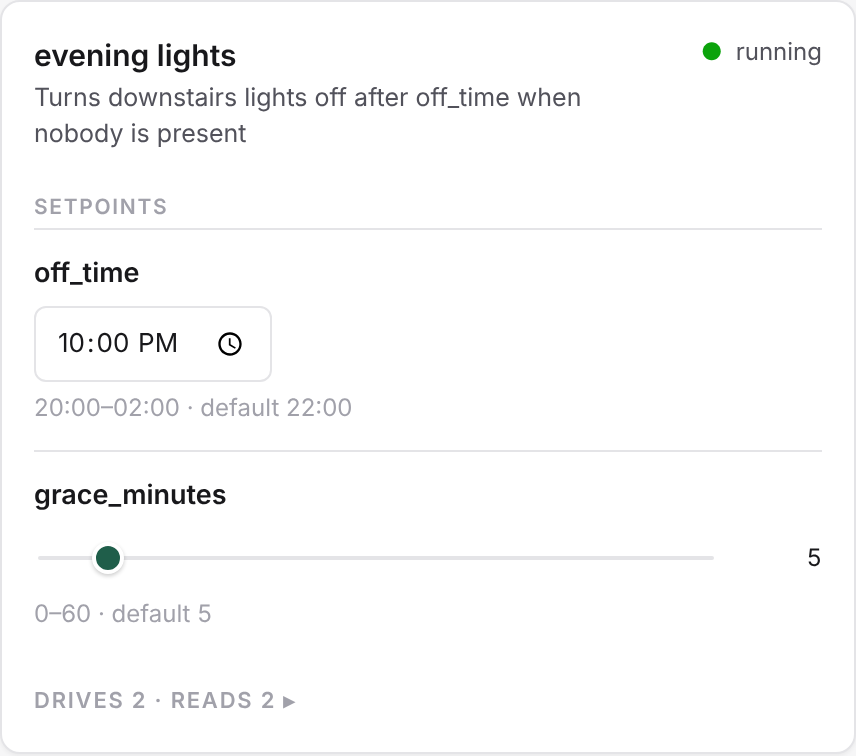
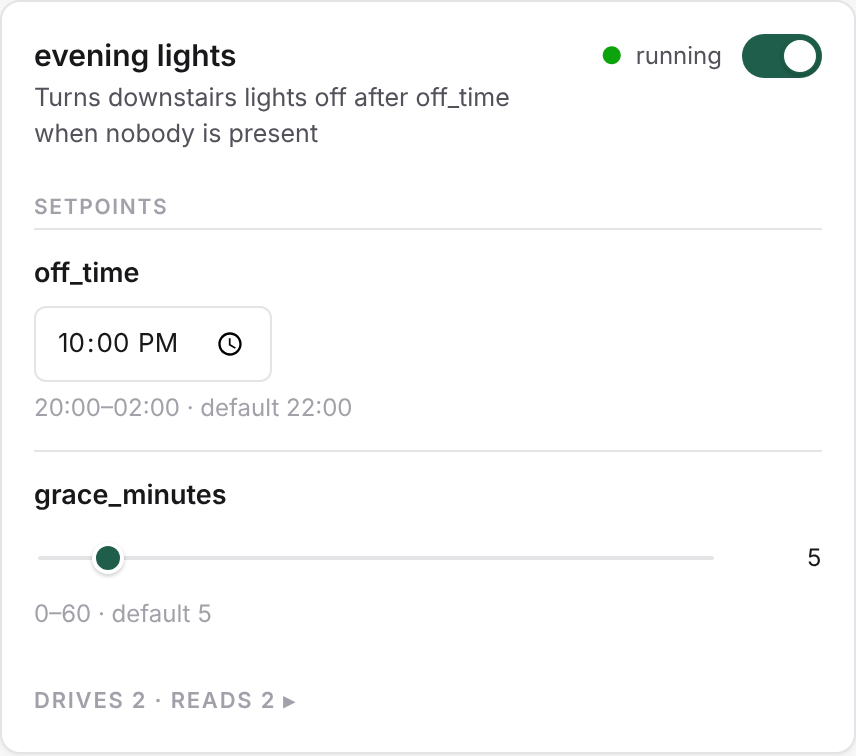
Dashboard: a pause switch on each automation's card
The switch sits in the head of the automation's unit card, on its Health
card and in its overlay, with a paused pill while it is off. It leaves the
setpoint lists. Now lists a paused automation as paused and taps to it.

Claude-Session: https://claude.ai/code/session_01Qz5udWg3SjDtcv9C5WB9Xo

Changed region(s): [[0.0304, 0.1521, 0.3645, 0.213], [0.6986, 0.0304, 0.972, 0.1217], [0.6075, 0.1217, 0.6682, 0.1521]]

diff --git a/adapters/assets/dashboard-logic.js b/adapters/assets/dashboard-logic.js
@@ -429,6 +429,19 @@
         if (!(configKey in config)) return;
         var live = config[configKey];
         var def = params[pname].default;
+        if (pname === PAUSE_PARAM && pauseParam(u)) {
+          // A pause reads as what it is, and taps to the unit, whose card
+          // carries the switch.
+          if (live === false) {
+            deviations.push({
+              tag: 'setpoint',
+              title: (labels[u.name] || u.name) + ' is paused',
+              detail: 'its commands are not sent',
+              target: { type: 'unit', unit: u.name }
+            });
+          }
+          return;
+        }
         if (JSON.stringify(live) !== JSON.stringify(def)) {
           // A family param taps through to its editor on Setpoints; an
           // owner param is read-only here, so it taps to the unit overlay
@@ -1407,9 +1420,27 @@
     });
   }
 
+  /* The family's parameters of a unit, without an automation's pause
+   * switch, which its card shows in its head instead. */
   function familyParams(unit) {
     var params = (unit && unit.params) || {};
-    return Object.keys(params).filter(function (p) { return params[p].editable_by === 'family'; });
+    return Object.keys(params).filter(function (p) {
+      return params[p].editable_by === 'family' && !(p === PAUSE_PARAM && pauseParam(unit));
+    });
+  }
+
+  /* An automation's pause switch: the `enabled` parameter the core gives
+   * every automation (docs/design.md#pausing-an-automation). Its spec, or
+   * null for a unit that has none. */
+  var PAUSE_PARAM = 'enabled';
+  function pauseParam(unit) {
+    if (!unit || unit.kind !== 'automation') return null;
+    return (unit.params || {})[PAUSE_PARAM] || null;
+  }
+
+  /* Whether an automation is paused: its `enabled` reads false. */
+  function isPaused(unit, config) {
+    return !!pauseParam(unit) && (config || {})['home/config/' + unit.name + '/' + PAUSE_PARAM] === false;
   }
 
   /* A view's widgets with every group expanded. A group is only a card
@@ -1496,6 +1527,7 @@
     return {
       unit: unit,
       params: familyParams(unit),
+      pause: pauseParam(unit),
       publishes: (model.entities || []).filter(function (e) { return e.owner === unitName; }),
       drives: fields(unit.drives),
       sources: fields(unit.sources)
@@ -1528,6 +1560,9 @@
     viewsOf: viewsOf,
     placement: placement,
     unitCardPlan: unitCardPlan,
+    familyParams: familyParams,
+    pauseParam: pauseParam,
+    isPaused: isPaused,
     viewFor: viewFor,
     historyShape: historyShape,
     bucketSeconds: bucketSeconds,

diff --git a/tests/js/dashboard-logic.test.js b/tests/js/dashboard-logic.test.js
@@ -123,6 +123,52 @@ test('an owner param off its default deviates too, tapping to the unit rather th
   assert.deepEqual(off[0].target, { type: 'unit', unit: 'evening_lights' });
 });
 
+// An automation's pause switch (docs/design.md#pausing-an-automation):
+// the `enabled` parameter the core gives every automation.
+function pausable(params) {
+  return {
+    name: 'porch',
+    label: 'Porch light',
+    kind: 'automation',
+    params: Object.assign(
+      { enabled: { type: 'bool', default: true, editable_by: 'family' } },
+      params || {}
+    ),
+  };
+}
+
+test('only an automation has a pause switch', () => {
+  assert.deepEqual(logic.pauseParam(pausable()), { type: 'bool', default: true, editable_by: 'family' });
+  const adapter = Object.assign(pausable(), { kind: 'adapter' });
+  assert.equal(logic.pauseParam(adapter), null, 'an adapter enabled param is an ordinary param');
+  assert.equal(logic.pauseParam({ name: 'x', kind: 'automation', params: {} }), null);
+});
+
+test('a paused automation reads as paused, and only on false', () => {
+  const unit = pausable();
+  assert.equal(logic.isPaused(unit, { 'home/config/porch/enabled': false }), true);
+  assert.equal(logic.isPaused(unit, { 'home/config/porch/enabled': true }), false);
+  assert.equal(logic.isPaused(unit, {}), false, 'no served value is not a pause');
+});
+
+test('the pause switch is in the card head, not among its setpoints', () => {
+  const m = model({ units: [pausable({ level: { type: 'int', default: 1, editable_by: 'family' } })] });
+  const plan = logic.unitCardPlan(m, 'porch');
+  assert.deepEqual(plan.params, ['level']);
+  assert.equal(plan.pause.type, 'bool');
+  assert.deepEqual(logic.placement(Object.assign(m, { views: [{ name: 'v', widgets: [] }] })).params.map((p) => p.param),
+    ['level'], 'Health carries the switch, so Not shown does not list it');
+});
+
+test('a paused automation deviates as paused and taps to its unit', () => {
+  const m = model({ units: [pausable()] });
+  const devs = deviations(null, null, { 'home/config/porch/enabled': false }, m);
+  assert.equal(devs.length, 1);
+  assert.equal(devs[0].title, 'Porch light is paused');
+  assert.deepEqual(devs[0].target, { type: 'unit', unit: 'porch' });
+  assert.deepEqual(deviations(null, null, { 'home/config/porch/enabled': true }, m), []);
+});
+
 // Arbiter holds (docs/design.md#views-are-text). A lease is taken by
 // every forwarded command, so what makes one worth a row is displacement:
 // it stands above a band something is granted to drive that aspect at.

diff --git a/adapters/assets/dashboard/widgets/params.js b/adapters/assets/dashboard/widgets/params.js
@@ -8,7 +8,7 @@ import { houseControls, localState, store, unitLabel } from '../store.js';
 // A unit's family-editable parameters as one card.
 export function widgetParams(unit) {
   var params = unit.params || {};
-  var rows = Object.keys(params).filter(function (p) { return familyEditable(params[p]); })
+  var rows = logic.familyParams(unit)
     .map(function (p) { return renderParamRow(unit.name, p, params[p], true); });
   return html`<div class="card"><div class="card-label">${unit.label}</div>
     ${rows.length ? rows : html`<div class="empty-hint">No family-editable parameters.</div>`}</div>`;
@@ -77,6 +77,22 @@ function paramDefaultCaption(p) {
 }
 
 export function familyEditable(p) { return p.editable_by === 'family'; }
+
+// An automation's pause switch and, while it is paused, a pill saying so
+// (docs/design.md#pausing-an-automation). On means the automation runs.
+// An owner-tier switch is shown but not offered. Empty for a unit with no
+// switch.
+export function renderPauseSwitch(unit) {
+  var spec = logic.pauseParam(unit);
+  if (!spec) return '';
+  var on = currentParamValue(unit.name, 'enabled', spec) !== false;
+  var title = on ? 'Running. Switch off to pause it.' : 'Paused: its commands are not sent.';
+  var pill = on ? '' : html`<span class="paused-pill">paused</span>`;
+  if (!familyEditable(spec)) {
+    return html`<span class="pause-switch">${pill}<span class="toggle disabled ${on ? 'on' : ''}" title="${title} Only the owner can change it."><span class="knob"></span></span></span>`;
+  }
+  return html`<span class="pause-switch">${pill}<span class="toggle ${on ? 'on' : ''}" role="switch" aria-checked="${on}" aria-label="${unit.label} enabled" title="${title}" data-action="param-toggle" data-unit="${unit.name}" data-param="enabled" data-value="${!on}"><span class="knob"></span></span></span>`;
+}
 
 // Shared by the Setpoints view and the unit-detail overlay. A param the
 // family cannot edit shows its live value and the manifest default

diff --git a/adapters/assets/dashboard/overlay/unit.js b/adapters/assets/dashboard/overlay/unit.js
@@ -1,11 +1,11 @@
 /* The unit overlay: a unit's health, parameters, events and log. */
 import { fmtOrDash, statusChipHtml } from '../chrome.js';
 import { html } from '../html.js';
-import { titleCase, unitNameFromHealthKey } from '../logic.js';
+import logic, { titleCase, unitNameFromHealthKey } from '../logic.js';
 import { renderOverlayContent, showOverlay } from './panel.js';
 import { overlay, store, unitsByName } from '../store.js';
 import { renderEventRow } from '../views/health.js';
-import { renderParamRow } from '../widgets/params.js';
+import { renderParamRow, renderPauseSwitch } from '../widgets/params.js';
 
 function fetchUnitLog(unitName) {
   overlay.log = { lines: [], loaded: false, loading: true };
@@ -46,10 +46,14 @@ export function renderUnitDetailBody() {
     <div class="aspect-row"><span class="muted">pid:</span> ${fmtOrDash(h.pid)}</div>
     <div class="aspect-row"><span class="muted">restarts:</span> ${fmtOrDash(h.restarts)}</div>
     <div class="aspect-row"><span class="muted">backoff_ms:</span> ${fmtOrDash(h.backoff_ms)}</div>
-    <div class="aspect-row"><span class="muted">last_exit_code:</span> ${fmtOrDash(h.last_exit_code)}</div>`;
+    <div class="aspect-row"><span class="muted">last_exit_code:</span> ${fmtOrDash(h.last_exit_code)}</div>
+    ${logic.pauseParam(unit) ? html`<div class="aspect-row"><span class="muted">enabled:</span> ${renderPauseSwitch(unit)}</div>` : ''}`;
 
   var params = unit.params || {};
-  var paramRows = Object.keys(params).map(function (pname) {
+  // An automation's `enabled` is its pause switch, shown under Health.
+  var paramRows = Object.keys(params).filter(function (pname) {
+    return !(pname === 'enabled' && logic.pauseParam(unit));
+  }).map(function (pname) {
     return renderParamRow(unit.name, pname, params[pname]);
   });
   var paramsHtml = paramRows.length ? paramRows : html`<div class="empty-hint">No parameters.</div>`;

diff --git a/adapters/assets/dashboard/widgets/unit.js b/adapters/assets/dashboard/widgets/unit.js
@@ -4,7 +4,7 @@ import { html } from '../html.js';
 import logic from '../logic.js';
 import { descriptorField, localState, stateValue, store } from '../store.js';
 import { widgetForEntity } from './entity.js';
-import { renderParamRow } from './params.js';
+import { renderParamRow, renderPauseSwitch } from './params.js';
 
 // A unit's card (dashboard-logic.js, unitCardPlan): the head, then the
 // relations the manifest and the grant table state. Each section is drawn
@@ -19,7 +19,7 @@ export function widgetUnit(unitName) {
   var parts = [html`<div class="unit-head row-clickable" data-action="unit-detail" data-unit="${u.name}">
     <div><div class="unit-name" title="${u.label}">${u.label}</div>
     ${u.description ? html`<div class="unit-desc">${u.description}</div>` : ''}</div>
-    <span class="status-badge" title="${healthTooltip(h)}"><span class="status-glyph status-${status}">${statusGlyph(status)}</span>${status}</span></div>`];
+    <div class="unit-head-side"><span class="status-badge" title="${healthTooltip(h)}"><span class="status-glyph status-${status}">${statusGlyph(status)}</span>${status}</span>${renderPauseSwitch(u)}</div></div>`];
   var section = function (label, rows) {
     return rows.length ? html`<div class="section-label">${label}</div>${rows}` : '';
   };

diff --git a/adapters/assets/dashboard/views/health.js b/adapters/assets/dashboard/views/health.js
@@ -3,6 +3,7 @@ import { healthTooltip, statusGlyph } from '../chrome.js';
 import { byId, html } from '../html.js';
 import { unitNameFromHealthKey } from '../logic.js';
 import { store, unitLabel } from '../store.js';
+import { renderPauseSwitch } from '../widgets/params.js';
 
 export function renderEventRow(ev) {
   var unit = unitNameFromHealthKey(ev.key);
@@ -26,7 +27,7 @@ export function renderHealth() {
     if (h.last_exit_code !== undefined && h.last_exit_code !== null) meta.push('last exit: ' + h.last_exit_code);
     return html`<div class="card health-card clickable" data-action="unit-detail" data-unit="${u.name}"><div class="health-head">
       <span class="name" title="${u.label}">${u.label}</span>
-      <span class="status-badge" title="${healthTooltip(h)}"><span class="status-glyph status-${status}">${statusGlyph(status)}</span>${status}</span></div>
+      <span class="health-side"><span class="status-badge" title="${healthTooltip(h)}"><span class="status-glyph status-${status}">${statusGlyph(status)}</span>${status}</span>${renderPauseSwitch(u)}</span></div>
       ${meta.length ? html`<div class="health-meta">${meta.join(' · ')}</div>` : ''}
       </div>`;
   });

diff --git a/adapters/assets/dashboard/views/setpoints.js b/adapters/assets/dashboard/views/setpoints.js
@@ -1,16 +1,17 @@
 /* The Setpoints view. */
 import { byId, html } from '../html.js';
+import logic from '../logic.js';
 import { store } from '../store.js';
-import { familyEditable, renderParamRow } from '../widgets/params.js';
+import { renderParamRow } from '../widgets/params.js';
 
 // Setpoints holds the family's settings: family-editable params only.
-// Owner params are shown read-only in the unit overlay (Health -> unit).
+// Owner params are shown read-only in the unit overlay (Health -> unit),
+// and an automation's pause switch on its cards.
 export function renderSetpoints() {
   var rows = [];
   (store.model.units || []).forEach(function (u) {
-    var params = u.params || {};
-    Object.keys(params).forEach(function (pname) {
-      if (familyEditable(params[pname])) rows.push(renderParamRow(u.name, pname, params[pname]));
+    logic.familyParams(u).forEach(function (pname) {
+      rows.push(renderParamRow(u.name, pname, u.params[pname]));
     });
   });
   byId('view').innerHTML = html`<h1 class="view-title">Setpoints</h1>

diff --git a/adapters/assets/dashboard.css b/adapters/assets/dashboard.css
@@ -452,6 +452,10 @@ input[type=text], input[type=time] { border: 1px solid var(--border); background
 .status-glyph.status-open { color: var(--critical); }
 .status-glyph.status-stopped { color: var(--muted); }
 .health-meta { font-size: 12px; color: var(--muted); }
+.health-side, .unit-head-side { display: flex; align-items: center; gap: 10px; }
+.pause-switch { display: flex; align-items: center; gap: 6px; }
+.paused-pill { font-size: 11px; color: var(--warning); border: 1px solid var(--warning);
+  border-radius: 8px; padding: 1px 6px; white-space: nowrap; }
 .event-feed { margin-top: 10px; }
 .event-row { font-size: 12px; padding: 6px 0; border-top: 1px solid var(--border); color: var(--secondary); }
 .event-row:first-of-type { border-top: none; }

diff --git a/tests/browser/run.py b/tests/browser/run.py
@@ -463,6 +463,34 @@ class UnitOverlay(PageTest):
         self.assertIn("staged", await lines.first.inner_text())
 
 
+class PauseSwitch(PageTest):
+    """An automation's card carries its pause switch, and a tap asks for the
+    `enabled` parameter to change (docs/design.md#pausing-an-automation)."""
+
+    async def test_automations_and_only_they_have_a_switch(self):
+        await self.view("health")
+        switches = self.page.locator("#view .health-card .pause-switch .toggle")
+        self.assertEqual(await switches.count(), 2, "evening_lights and fused")
+        self.assertEqual(await self.page.locator("#view .pause-switch .toggle.on").count(), 2)
+
+    async def test_a_tap_pauses_the_automation(self):
+        await self.view("health")
+        switch = self.page.locator(
+            '#view .pause-switch [data-unit="evening_lights"][data-param="enabled"]'
+        )
+        await switch.click()
+        await self.page.wait_for_timeout(300)
+        self.assertEqual(
+            self.house.posted("/api/param"),
+            [{"unit": "evening_lights", "param": "enabled", "value": False}],
+        )
+        self.assertEqual(
+            await self.page.locator("#overlay-panel.show").count(),
+            0,
+            "the tap is the switch's, not the card's",
+        )
+
+
 class PagesDemo(unittest.IsolatedAsyncioTestCase):
     """The static demo on GitHub Pages, as built and served.
 

diff --git a/docs/widgets.md b/docs/widgets.md
@@ -35,7 +35,7 @@ One aspect's history over a window.
 
 ## `entity`
 
-An entity's own row — its control or its readings — as a card.
+An entity's own row (its control or its readings) as a card.
 
 ```toml
 { kind = "entity", entity = "livingroom_lamp" }
@@ -65,7 +65,7 @@ A room's card: every entity in the room.
 
 ## `unit`
 
-A unit's card: its family setpoints, the entities it publishes, the entities it drives (from the grant table) and the entities it reads (from its subscriptions) — a pure function of its manifest.
+A unit's card: its family setpoints, the entities it publishes, the entities it drives (from the grant table) and the entities it reads (from its subscriptions). All of it derives from its manifest. An automation's card also carries its pause switch.
 
 ```toml
 { kind = "unit", unit = "evening_lights" }
@@ -115,7 +115,7 @@ The map over every entity with a location.
 
 ## `group`
 
-Several widgets as one card — a dial with the traces that explain it, a setpoint beside what it drives. One level deep.
+Several widgets as one card, such as a dial with the traces that explain it, or a setpoint beside what it drives. Groups do not nest.
 
 ```toml
 { kind = "group", label = "Heating", widgets = [
@@ -128,7 +128,7 @@ Several widgets as one card — a dial with the traces that explain it, a setpoi
 
 ## `burner`
 
-A burner's card: its two commands and the two temperatures an interlock reads — the `burner` vocabulary, nothing dialectal.
+A burner's card: its two commands and the two temperatures an interlock reads. It uses only the `burner` vocabulary, with nothing adapter-specific.
 
 ```toml
 { kind = "burner", entity = "stove" }
